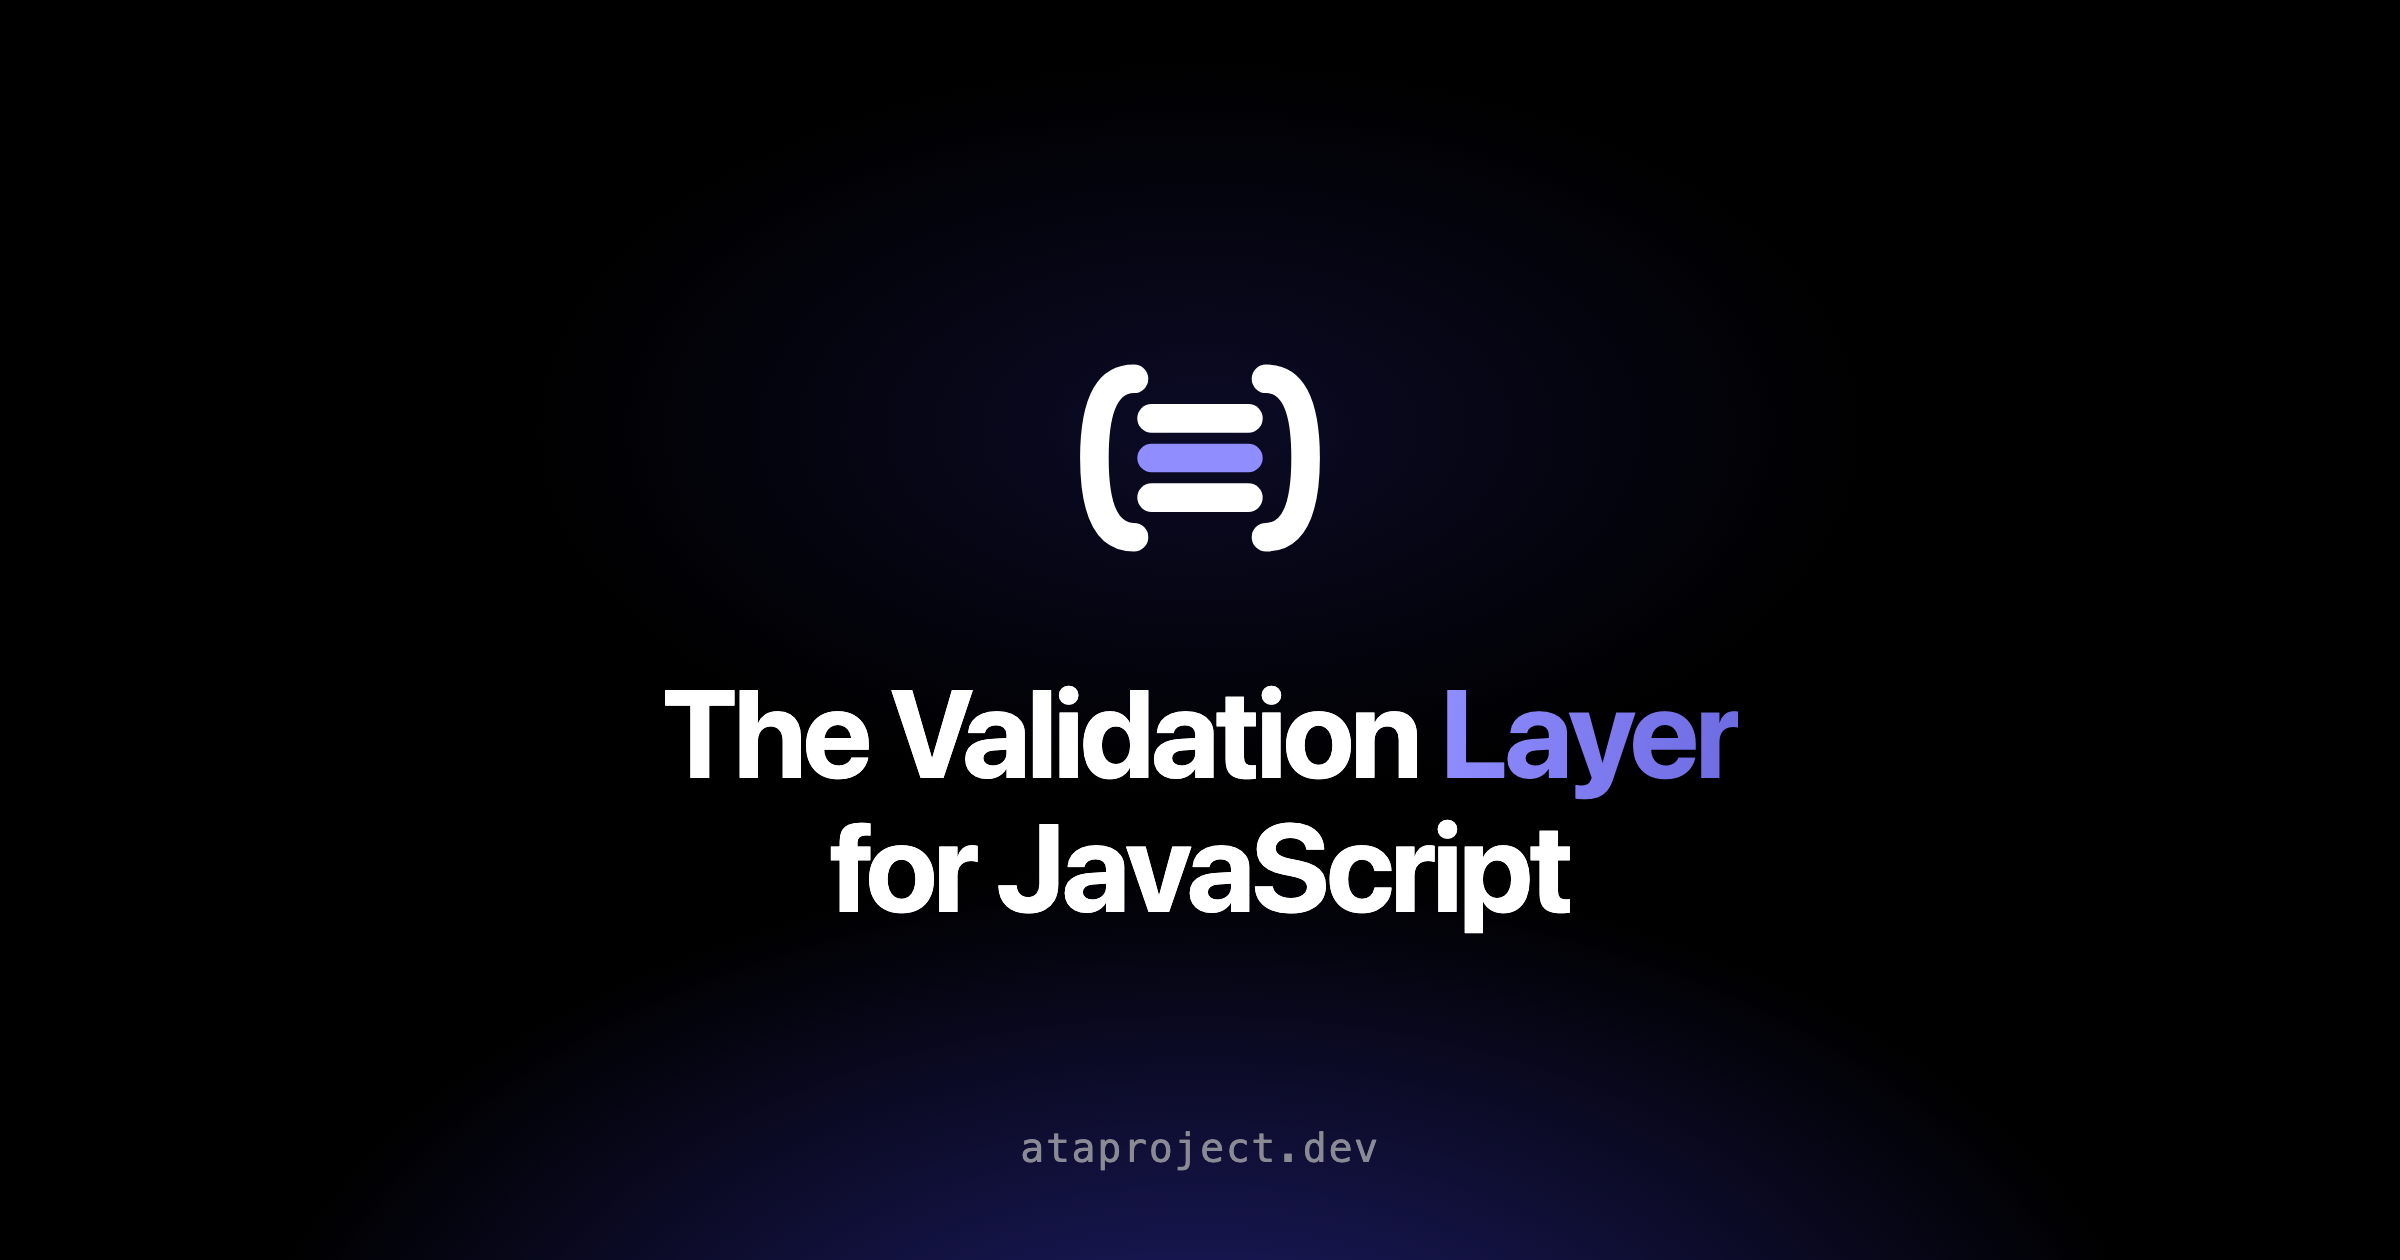
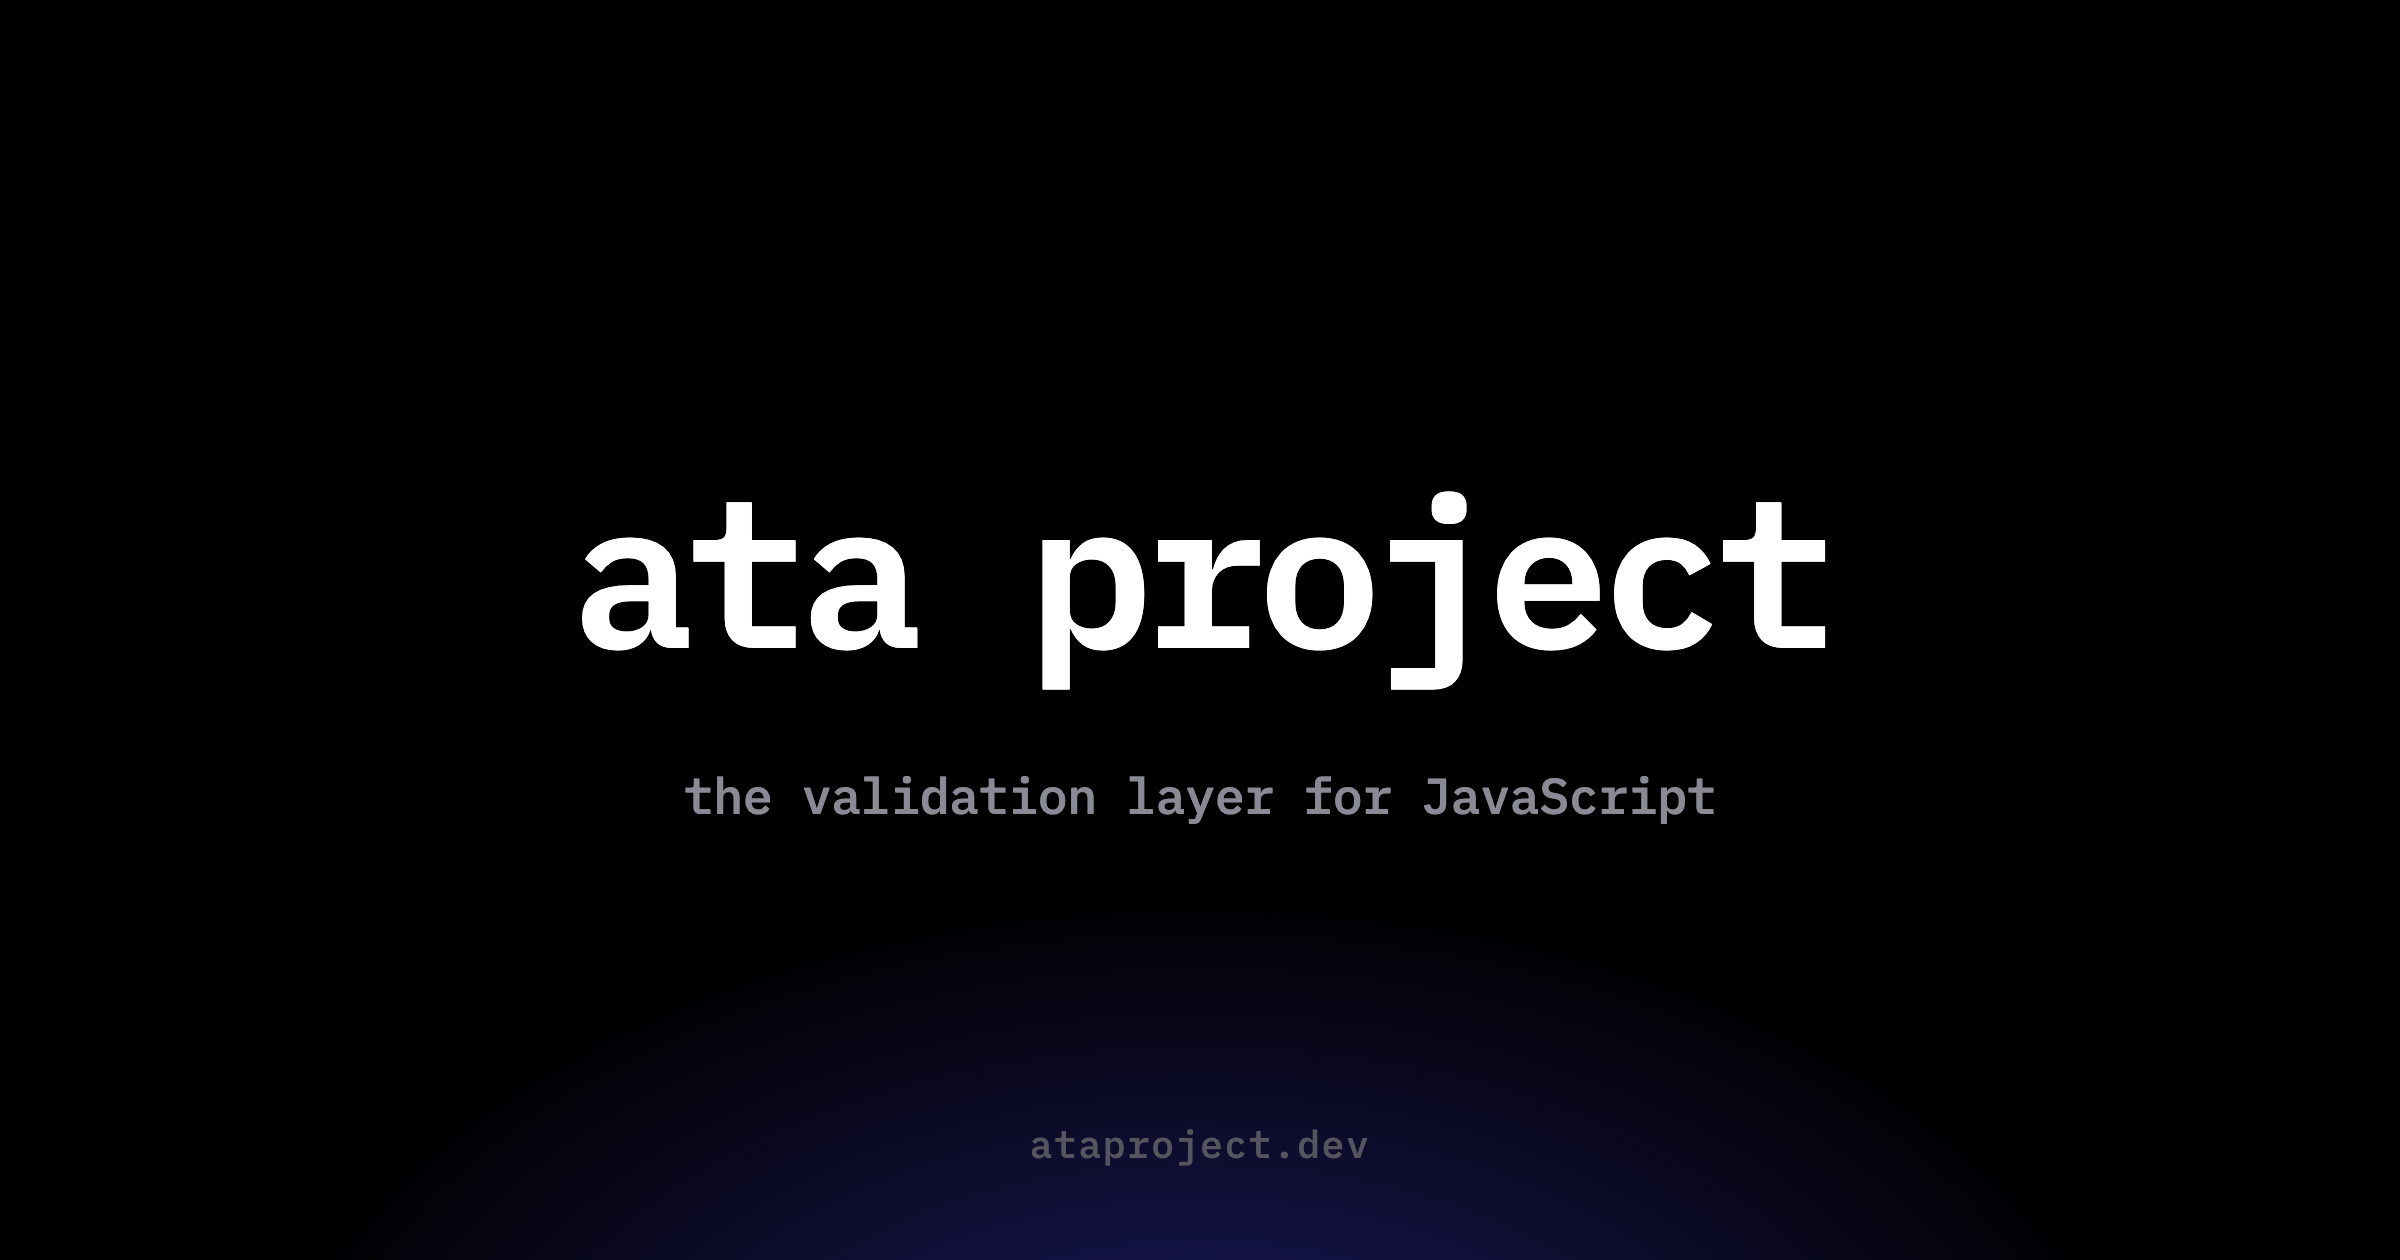
brand: ibm plex mono wordmark

Changed region(s): [[0.2188, 0.2167, 0.7812, 0.7429], [0.4062, 0.8976, 0.5938, 0.9286]]

diff --git a/src/styles.css b/src/styles.css
@@ -14,7 +14,7 @@
   --dark-ink: #f2f2ef;
   --dark-ink-2: #a3a39c;
   --ok: #35c06f;
-  --mono: ui-monospace, "SF Mono", Menlo, Consolas, monospace;
+  --mono: "IBM Plex Mono", ui-monospace, "SF Mono", Menlo, Consolas, monospace;
 }
 * { margin: 0; padding: 0; box-sizing: border-box; }
 html { scroll-behavior: smooth; }
@@ -36,9 +36,7 @@ nav {
   border-bottom: 1px solid var(--line);
 }
 .nav-in { display: flex; align-items: center; justify-content: space-between; height: 60px; }
-.mark { display: inline-flex; align-items: center; gap: 10px; font-weight: 700; font-size: 16px; color: var(--ink); letter-spacing: -0.01em; }
-.mark-glyph { width: 24px; height: 24px; }
-.mark span { color: var(--accent); }
+.mark { font-family: var(--mono); font-weight: 600; font-size: 16.5px; color: var(--ink); letter-spacing: -0.04em; }
 .nav-links { display: flex; gap: 26px; font-size: 14px; color: var(--ink-2); }
 .nav-links a:hover { color: var(--ink); }
 
@@ -186,10 +184,10 @@ h1 em, h2 em, .mission em {
     #17163a;
 }
 .banner-mark {
-  font-size: 52px; font-weight: 700; color: #ffffff; letter-spacing: -0.03em;
+  font-family: var(--mono);
+  font-size: 46px; font-weight: 600; color: #ffffff; letter-spacing: -0.04em;
   text-shadow: 0 2px 30px rgba(12, 10, 60, 0.55);
 }
-.banner-mark span { color: #9fd6ff; }
 footer { background: var(--dark); color: var(--dark-ink-2); padding: 52px 0 60px; }
 .foot-grid { display: grid; grid-template-columns: repeat(3, 1fr); gap: 32px; }
 .foot-h { font: 600 11px/1 var(--mono); letter-spacing: 0.12em; color: #6f6f68; margin-bottom: 14px; }

diff --git a/index.html b/index.html
@@ -4,6 +4,9 @@
     <meta charset="UTF-8" />
     <link rel="icon" type="image/svg+xml" href="/favicon.svg" />
     <meta name="viewport" content="width=device-width, initial-scale=1.0" />
+    <link rel="preconnect" href="https://fonts.googleapis.com">
+    <link rel="preconnect" href="https://fonts.gstatic.com" crossorigin>
+    <link href="https://fonts.googleapis.com/css2?family=IBM+Plex+Mono:wght@500;600;700&display=swap" rel="stylesheet">
     <meta name="description" content="The validation layer for JavaScript. One engine for JSON Schema: compiled in Node, interpreted under CSP, precompiled at build time, and behind the DSL you already use." />
     <title>ata project - The validation layer for JavaScript</title>
     <link rel="canonical" href="https://ataproject.dev/" />

diff --git a/src/App.tsx b/src/App.tsx
@@ -158,7 +158,7 @@ export default function App() {
     <>
       <nav>
         <div className="wrap nav-in">
-          <a className="mark" href="/"><img className="mark-glyph" src="/logo.svg" alt="" />ata<span>-</span>project</a>
+          <a className="mark" href="/">ata project</a>
           <div className="nav-links">
             <a href="#open-source">Open source</a>
             <a href="#numbers">Numbers</a>
@@ -275,7 +275,7 @@ export default function App() {
       </section>
 
       <div className="banner">
-        <span className="banner-mark">ata<span>-</span>project</span>
+        <span className="banner-mark">ata project</span>
       </div>
 
       <footer>
